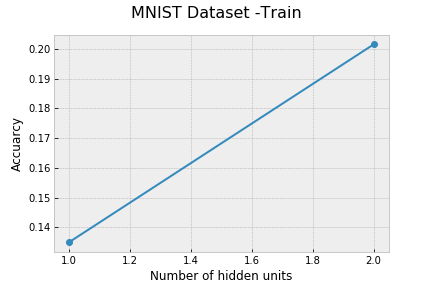
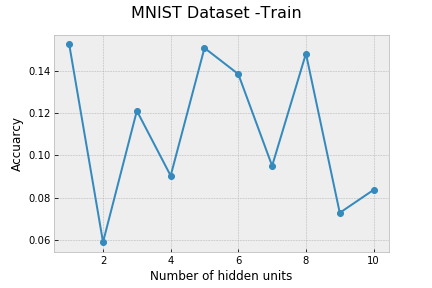
mnist results

diff --git a/source/main_mnist.py b/source/main_mnist.py
@@ -13,7 +13,7 @@ random.seed(1)
 # the data, split between train and test sets
 x_train, y_train, x_test, y_test = u.return_mnist_processed_data()
 
-number_of_samples = 2000
+number_of_samples = 6000
 x_train = x_train[0:number_of_samples]
 y_train = y_train[0:number_of_samples]
 
@@ -33,7 +33,7 @@ def log_likelihood(W, *logl_args):
 
 #Store results
 results_list = [] # to store result of nested sampling
-x_axis = range(1,10,1) # Number of hidden units
+x_axis = range(1,11,1) # Number of hidden units
 # Architecture for mlp
 input_neurons = x_train.shape[1] # inputs
 output_neurons = 10
@@ -42,7 +42,7 @@ start = datetime.now()
 for i  in x_axis:
     hidden_neurons = i
     ndim_1 =  (input_neurons+1) * (hidden_neurons) + (hidden_neurons + 1) * output_neurons
-    nlive = 500 #ndim_1*100
+    nlive = 50 #ndim_1*100
     logl_args = [input_neurons, hidden_neurons, output_neurons]
     
     print(" ")
@@ -79,7 +79,7 @@ ax.set_xlabel('Number of hidden units')
 ax.set_ylabel('Log evidence')
 plt.plot(x_axis, logZ, '-o')
 plt.show()
-fig.savefig('results/MNIST_log_evidence.png')
+fig.savefig('results/mnist_log_evidence.png')
 
 plt.style.use(['bmh'])
 fig, ax = plt.subplots(1)
